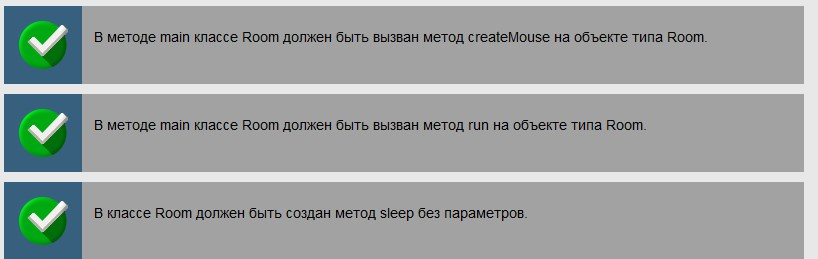
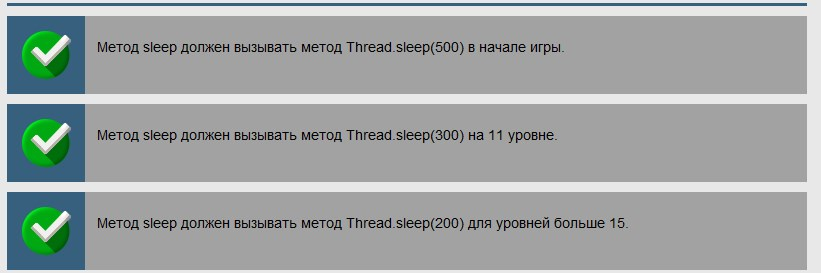
Змейка(13)
task2312.big13

Changed region(s): [[0.0, 0.0, 1.0, 1.0]]

diff --git a/JavaRushTasks/JavaRushTasks/3.JavaMultithreading/src/com/javarush/task/task2312/Room.java b/JavaRushTasks/JavaRushTasks/3.JavaMultithreading/src/com/javarush/task/task2312/Room.java
@@ -1,55 +1,38 @@
 package com.javarush.task.task23.task2312;
 
+
+import java.awt.event.KeyEvent;
+
 /**
- * Created by DDS_TS_2 on 12.09.2017.
+ * Основной класс программы.
  */
 public class Room {
     private int width;
     private int height;
-    private Mouse mouse;
     private Snake snake;
-    public static Room game;
+    private Mouse mouse;
 
     public Room(int width, int height, Snake snake) {
         this.width = width;
         this.height = height;
         this.snake = snake;
-    }
-    public static void main(String[] args) {
-        Snake snake = new Snake(0, 0);
-        game = new Room(400, 400, snake);
-        snake.setDirection(SnakeDirection.DOWN);
-        game.createMouse();
-        game.run();
-
-    }
-    public void sleep(){
-
-    }
-    public void run() {
-        sleep();
+        game = this;
     }
 
-    public void print() {
+    public Snake getSnake() {
+        return snake;
     }
-    public void createMouse(){
-        int x = (int) (Math.random() * width);
-        int y = (int) (Math.random() * height);
-        mouse = new Mouse(x,y);
+
+    public Mouse getMouse() {
+        return mouse;
     }
-    public void eatMouse(){
-        createMouse();
-    }
+
     public int getWidth() {
         return width;
     }
 
     public int getHeight() {
         return height;
-    }
-
-    public Mouse getMouse() {
-        return mouse;
     }
 
     public void setWidth(int width) {
@@ -60,15 +43,108 @@ public class Room {
         this.height = height;
     }
 
+    public void setSnake(Snake snake) {
+        this.snake = snake;
+    }
+
     public void setMouse(Mouse mouse) {
         this.mouse = mouse;
     }
 
-    public Snake getSnake() {
-        return snake;
+    /**
+     * Основной цикл программы.
+     * Тут происходят все важные действия
+     */
+    public void run() throws InterruptedException {
+        //Создаем объект "наблюдатель за клавиатурой" и стартуем его.
+        KeyboardObserver keyboardObserver = new KeyboardObserver();
+        keyboardObserver.start();
+
+        //пока змея жива
+        while (snake.isAlive()) {
+            //"наблюдатель" содержит события о нажатии клавиш?
+            if (keyboardObserver.hasKeyEvents()) {
+                KeyEvent event = keyboardObserver.getEventFromTop();
+                //Если равно символу 'q' - выйти из игры.
+                if (event.getKeyChar() == 'q') return;
+
+                //Если "стрелка влево" - сдвинуть фигурку влево
+                if (event.getKeyCode() == KeyEvent.VK_LEFT)
+                    snake.setDirection(SnakeDirection.LEFT);
+                    //Если "стрелка вправо" - сдвинуть фигурку вправо
+                else if (event.getKeyCode() == KeyEvent.VK_RIGHT)
+                    snake.setDirection(SnakeDirection.RIGHT);
+                    //Если "стрелка вверх" - сдвинуть фигурку вверх
+                else if (event.getKeyCode() == KeyEvent.VK_UP)
+                    snake.setDirection(SnakeDirection.UP);
+                    //Если "стрелка вниз" - сдвинуть фигурку вниз
+                else if (event.getKeyCode() == KeyEvent.VK_DOWN)
+                    snake.setDirection(SnakeDirection.DOWN);
+            }
+
+            snake.move();   //двигаем змею
+            print();        //отображаем текущее состояние игры
+            sleep();        //пауза между ходами
+        }
+
+        //Выводим сообщение "Game Over"
+        System.out.println("Game Over!");
     }
 
-    public void setSnake(Snake snake) {
-        this.snake = snake;
+    /**
+     * Выводим на экран текущее состояние игры
+     */
+    public void print() {
+        //Создаем массив, куда будем "рисовать" текущее состояние игры
+        //Рисуем все кусочки змеи
+        //Рисуем мышь
+        //Выводим все это на экран
+    }
+
+    /**
+     * Метод вызывается, когда мышь съели
+     */
+    public void eatMouse() {
+        createMouse();
+    }
+
+    /**
+     * Создает новую мышь
+     */
+    public void createMouse() {
+        int x = (int) (Math.random() * width);
+        int y = (int) (Math.random() * height);
+
+        mouse = new Mouse(x, y);
+    }
+
+
+    public static Room game;
+
+    public static void main(String[] args) throws InterruptedException {
+        game = new Room(20, 20, new Snake(10, 10));
+        game.snake.setDirection(SnakeDirection.DOWN);
+        game.createMouse();
+        game.run();
+    }
+
+
+    /**
+     * Программа делает паузу, длинна которой зависит от длинны змеи.
+     */
+    public void sleep() throws InterruptedException {
+
+        int sizeSnake= snake.getSections().size();
+        if (sizeSnake == 0) Thread.sleep(500);
+        else if (sizeSnake >= 1 && sizeSnake <= 10){
+            long pause = 500-(500-300)*(sizeSnake - 1)/9;
+            Thread.sleep(pause);
+        }
+        else if (sizeSnake > 10 && sizeSnake <= 15){
+            Thread.sleep(320-(300-200)*(sizeSnake-10)/5);
+        }
+        else if (sizeSnake > 15){
+            Thread.sleep(200);
+        }
     }
 }

diff --git a/JavaRushTasks/JavaRushTasks/3.JavaMultithreading/src/com/javarush/task/task2312/SnakeSection.java b/JavaRushTasks/JavaRushTasks/3.JavaMultithreading/src/com/javarush/task/task2312/SnakeSection.java
@@ -1,17 +1,14 @@
 package com.javarush.task.task23.task2312;
 
-/**
- * Created by DDS_TS_2 on 12.09.2017.
- */
 public class SnakeSection {
     private int x;
     private int y;
+
 
     public SnakeSection(int x, int y) {
         this.x = x;
         this.y = y;
     }
-
 
     public int getX() {
         return x;

diff --git a/JavaRushTasks/JavaRushTasks/3.JavaMultithreading/src/com/javarush/task/task2312/Mouse.java b/JavaRushTasks/JavaRushTasks/3.JavaMultithreading/src/com/javarush/task/task2312/Mouse.java
@@ -1,8 +1,5 @@
 package com.javarush.task.task23.task2312;
 
-/**
- * Created by DDS_TS_2 on 12.09.2017.
- */
 public class Mouse {
     private int x;
     private int y;

diff --git a/JavaRushTasks/JavaRushTasks/3.JavaMultithreading/src/com/javarush/task/task2312/SnakeDirection.java b/JavaRushTasks/JavaRushTasks/3.JavaMultithreading/src/com/javarush/task/task2312/SnakeDirection.java
@@ -1,8 +1,6 @@
 package com.javarush.task.task23.task2312;
 
-/**
- * Created by DDS_TS_2 on 12.09.2017.
- */
+
 public enum SnakeDirection {
     UP,
     RIGHT,
